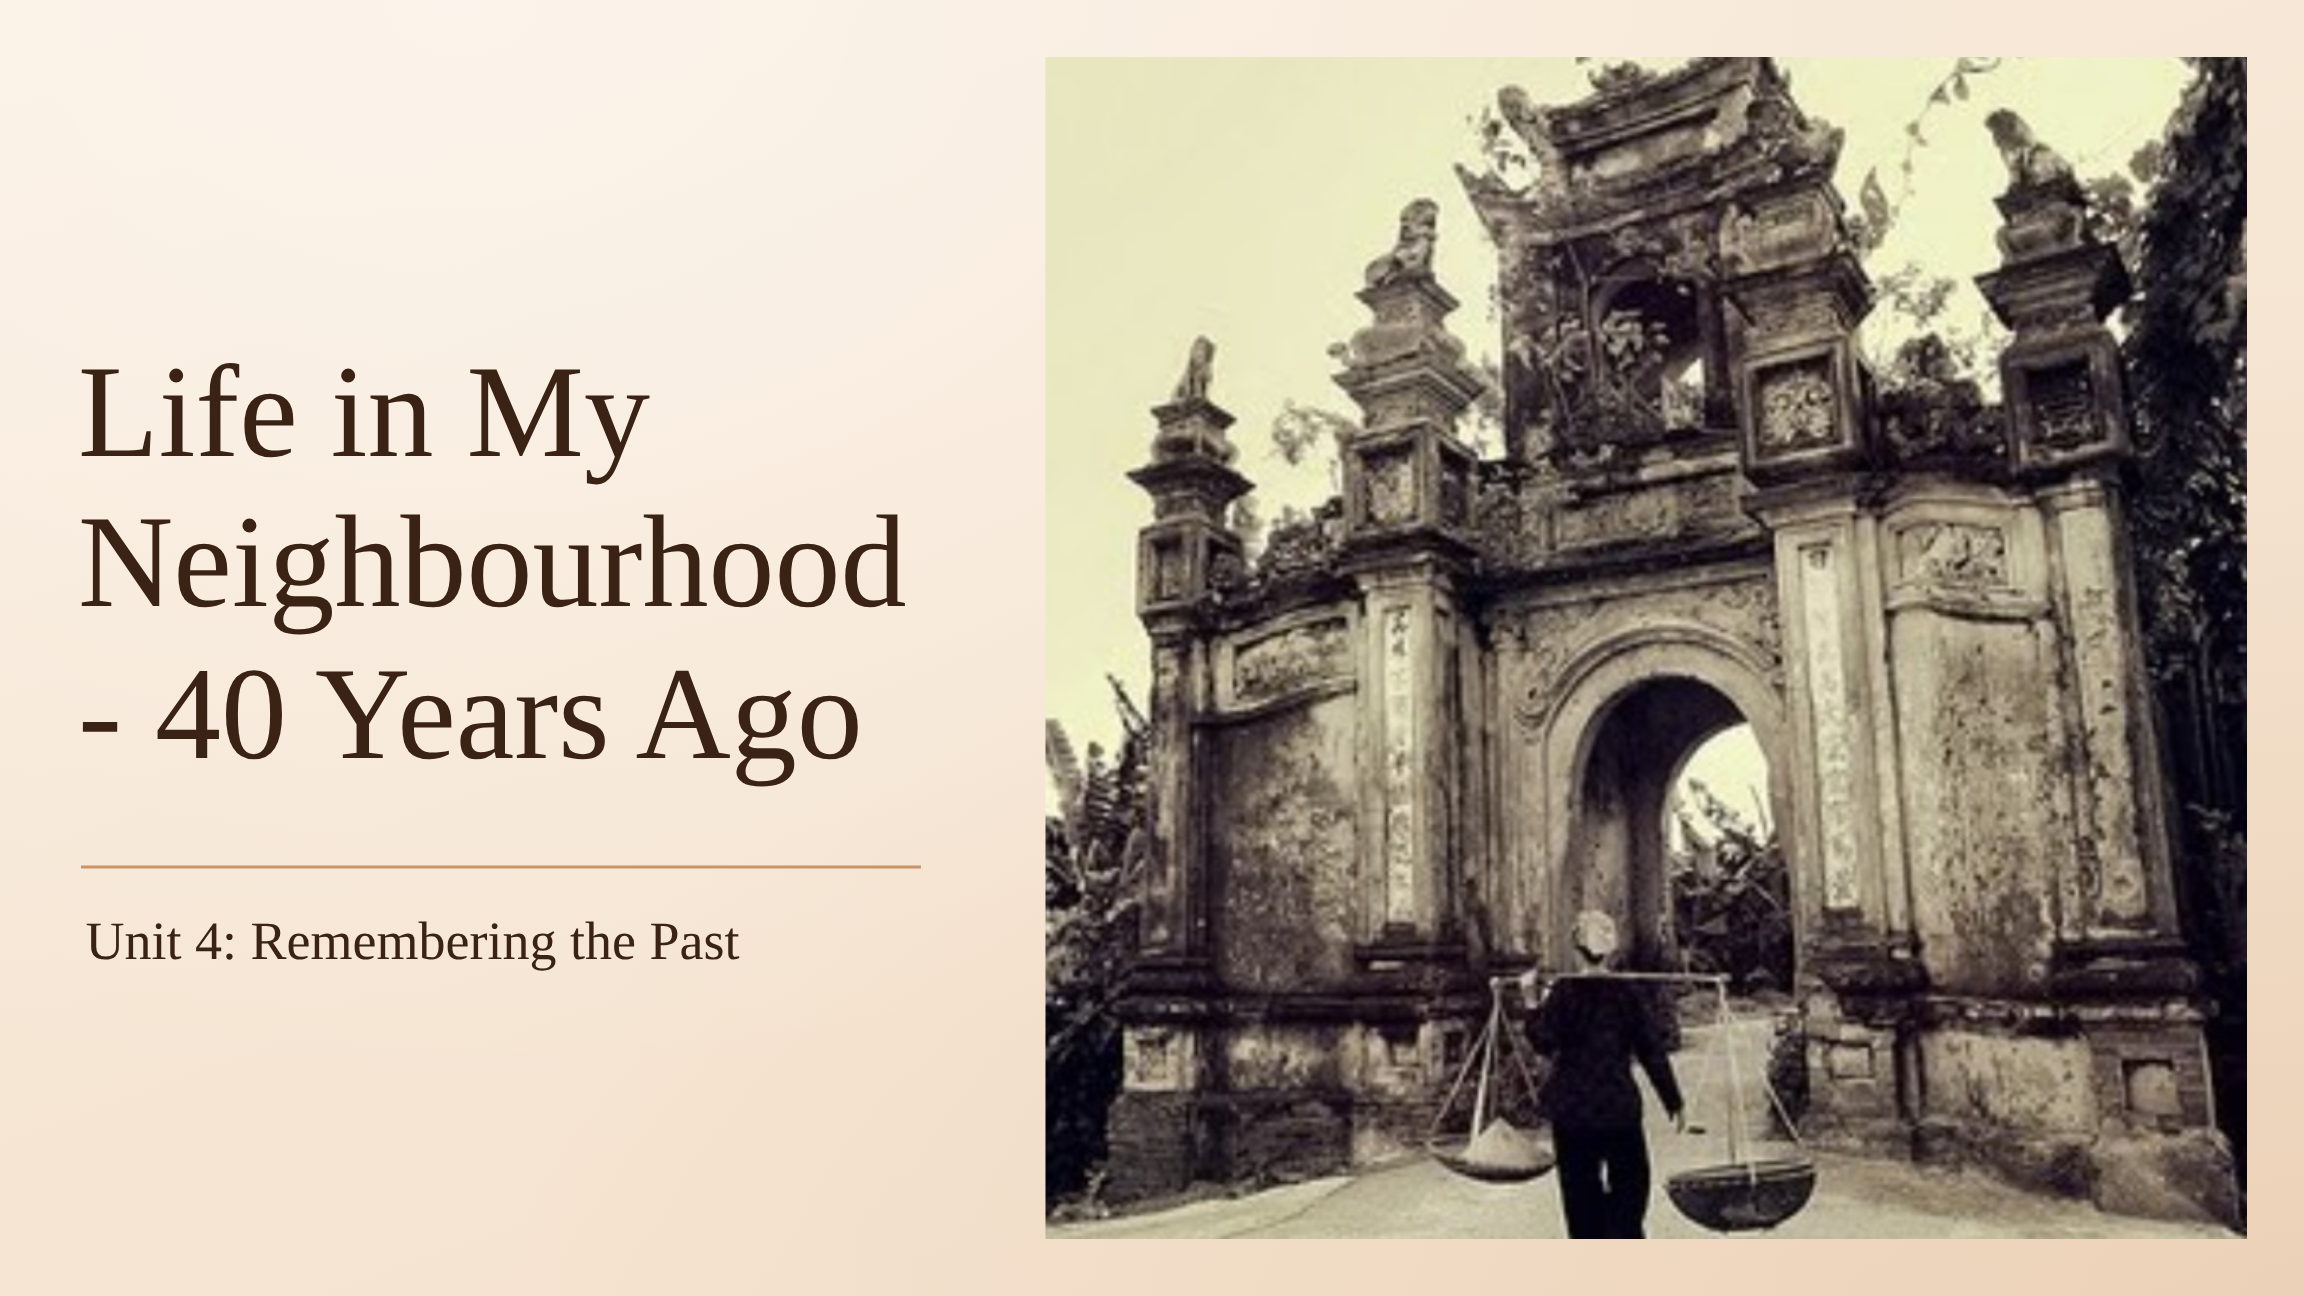
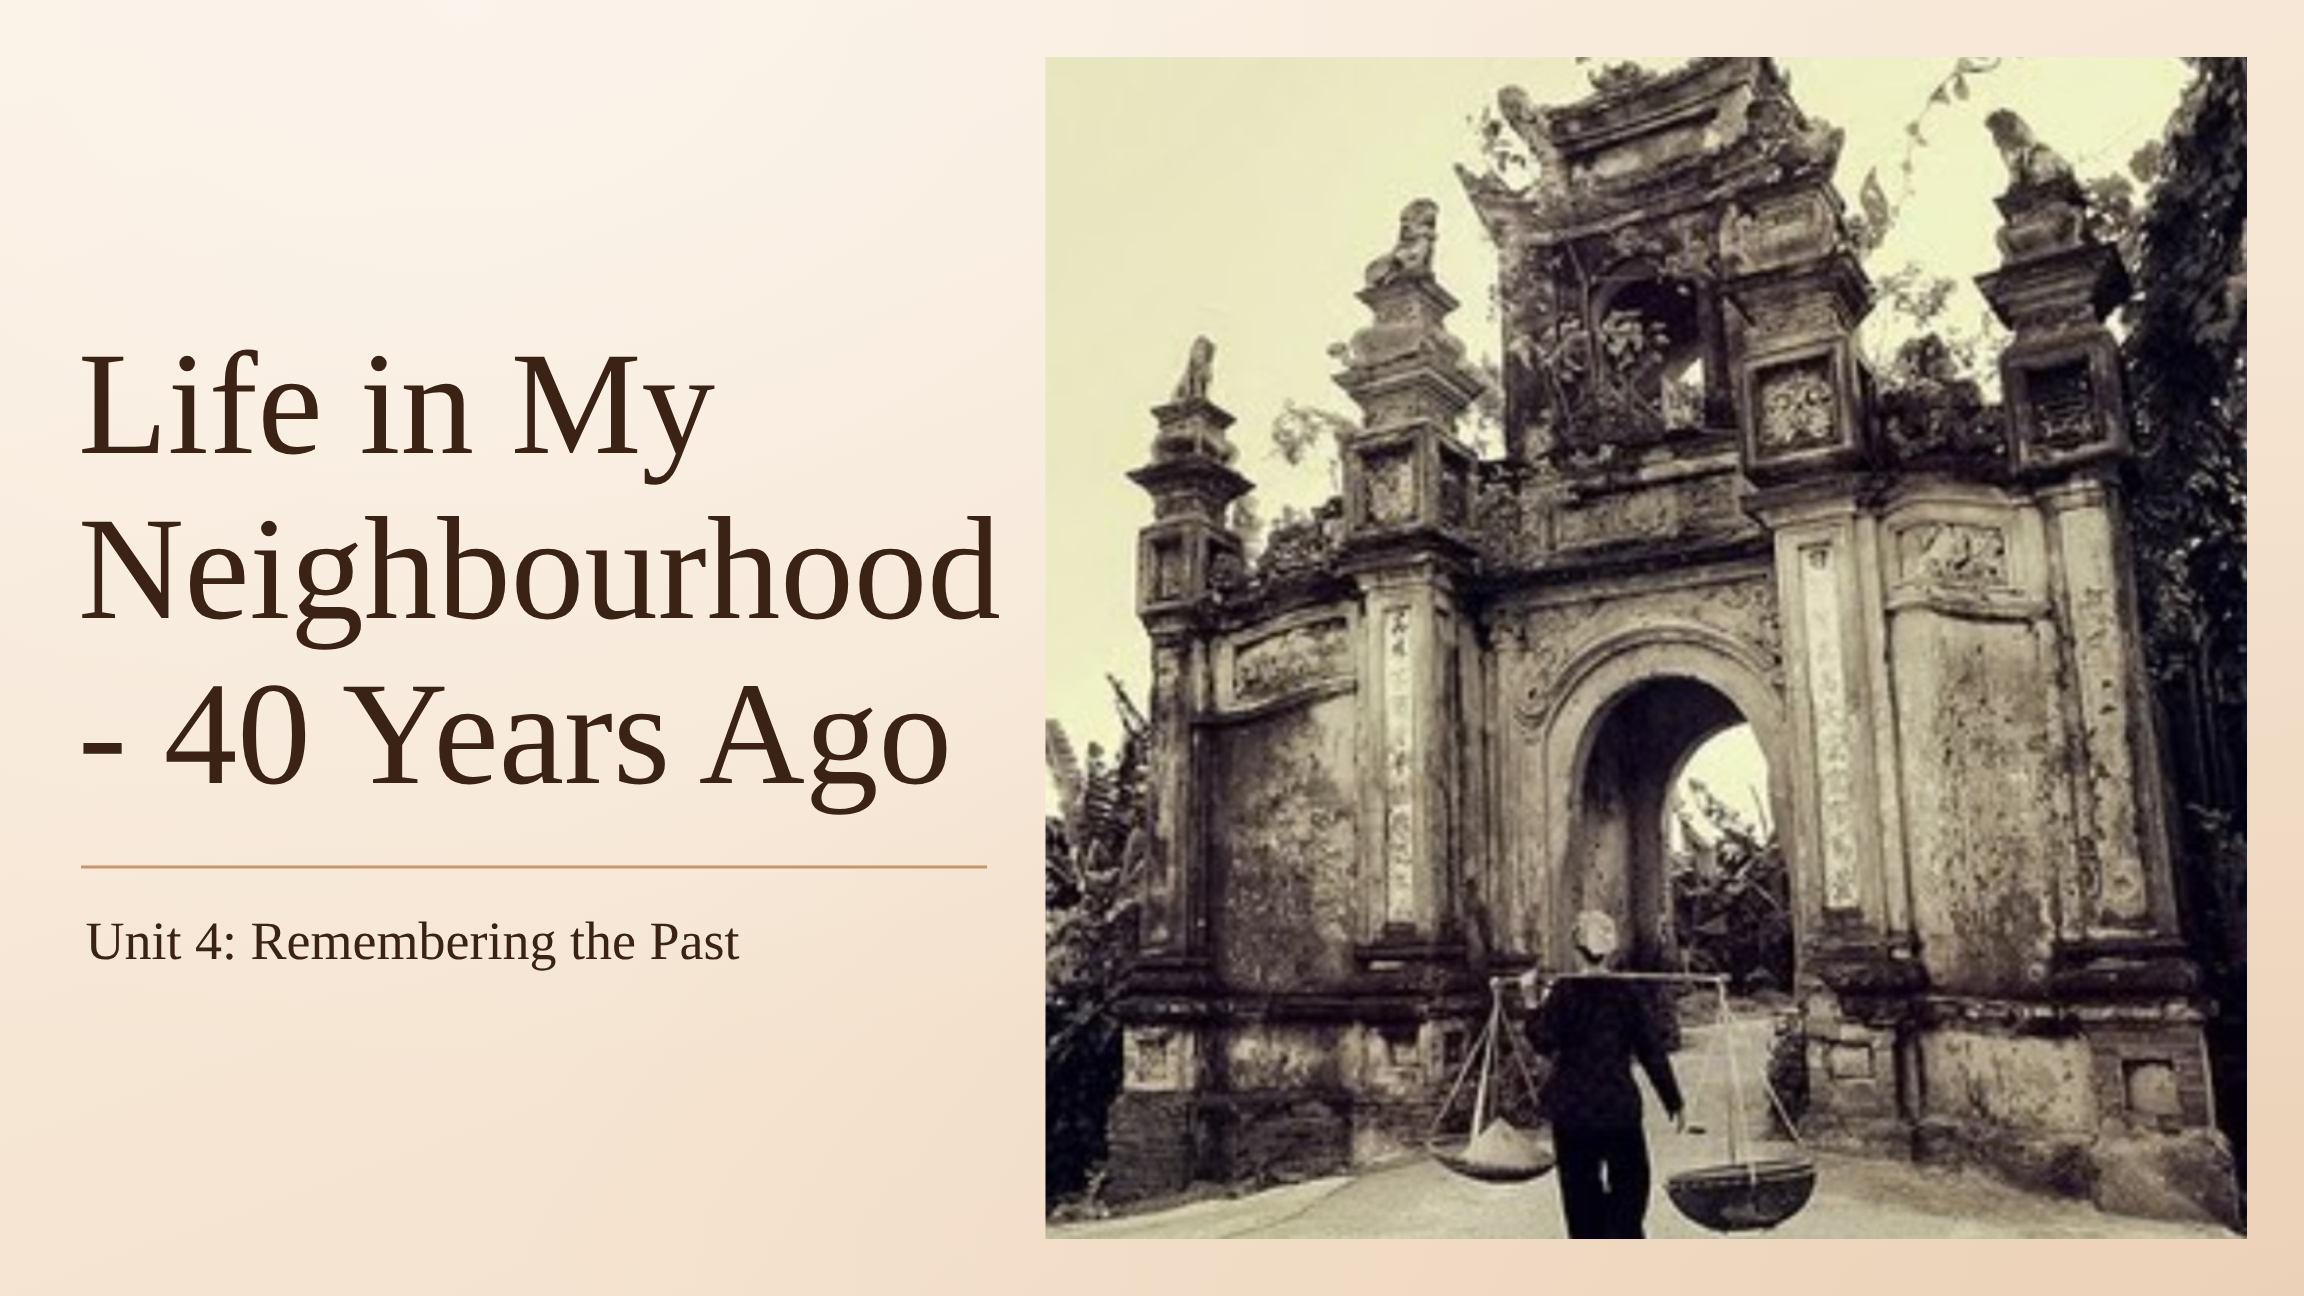
Revert "Layout: more breathing room between text cards and photos on slides 1, 3, 5"
This reverts commit 7299b2eda60c2e0602475002cdff7aa00d3e9dce.

Changed region(s): [[0.0312, 0.4012, 0.4375, 0.6481], [0.0312, 0.2778, 0.3125, 0.3704]]

diff --git a/slides.css b/slides.css
@@ -42,8 +42,8 @@ img.photo { object-fit: cover; }
         clip-path: polygon(0 8%, 4% 0, 9% 10%, 14% 0, 20% 9%, 100% 0, 96% 20%, 100% 44%, 95% 62%, 100% 86%, 100% 100%, 0 100%, 3% 70%, 0 46%, 4% 24%); }
 
 /* ===== 1. Tiêu đề ===== */
-.s1 h1 { left: 52px; top: 226px; width: 585px; font: 400 88px/1.14 var(--serif); color: var(--ink); }
-.s1 .rule { left: 54px; right: auto; width: 560px; top: 577px; }
+.s1 h1 { left: 52px; top: 216px; width: 640px; font: 400 98px/1.12 var(--serif); color: var(--ink); }
+.s1 .rule { left: 54px; right: auto; width: 604px; top: 577px; }
 .s1 .subtitle { left: 57px; top: 606px; font: 400 36px/1.2 var(--serif); color: var(--ink); }
 .s1 .photo { left: 697px; top: 38px; width: 801px; height: 788px; box-shadow: none; }
 
@@ -61,8 +61,8 @@ img.photo { object-fit: cover; }
 
 /* ===== 3 - 7: tiêu đề + 2 thẻ trái + ảnh phải ===== */
 .s3 .title { top: 50px; font-size: 90px; }  .s3 .rule { top: 177px; right: auto; width: 592px; }
-.s3 .c1 { left: 66px; top: 212px; width: 530px; height: 298px; }
-.s3 .c2 { left: 66px; top: 532px; width: 530px; height: 288px; }
+.s3 .c1 { left: 66px; top: 212px; width: 550px; height: 298px; }
+.s3 .c2 { left: 66px; top: 532px; width: 550px; height: 288px; }
 .s3 .pic { left: 670px; top: 230px; width: 822px; height: 518px; transform-origin: 50% 0; }
 .pic .photo { position: absolute; inset: 0; box-shadow: 0 8px 20px rgba(60,30,10,.25); }
 .ptape { position: absolute; image-rendering: pixelated; width: 120px; height: 40px; }
@@ -81,11 +81,10 @@ img.photo { object-fit: cover; }
 
 .s5 .title { top: 46px; font-size: 96px; }
 .s5 .rule { top: 177px; right: 66px; }
-.s5 .c1 { left: 66px; top: 222px; width: 505px; height: 288px; }
-.s5 .c2 { left: 66px; top: 525px; width: 505px; height: 278px; }
+.s5 .c1 { left: 66px; top: 222px; width: 510px; height: 288px; }
+.s5 .c2 { left: 66px; top: 525px; width: 510px; height: 278px; }
 .s5 .photo { left: 603px; top: 200px; width: 875px; height: 608px; }
-.s5 .card p { max-width: 350px; }
-.s5 .card h3 { font-size: 40px; }
+.s5 .card p { max-width: 360px; }
 
 .s6 .title { top: 58px; font-size: 94px; left: 68px; }
 .s6 .rule { top: 171px; left: 68px; right: 56px; }

diff --git a/index.html b/index.html
@@ -328,7 +328,7 @@
   <script>
     // ================= CẤU HÌNH =================
     const slideImages = [
-      'slide1.png?v=1117', 'slide2.png', 'slide3.png?v=1117', 'slide4.png', 'slide5.png?v=1117',
+      'slide1.png', 'slide2.png', 'slide3.png', 'slide4.png', 'slide5.png',
       'slide6.png', 'slide7.png', 'slide8.png', 'slide9.png', 'slide10.png'
     ];
     // Thông tin hiển thị khi mở từng slide: sửa title / desc ở đây
